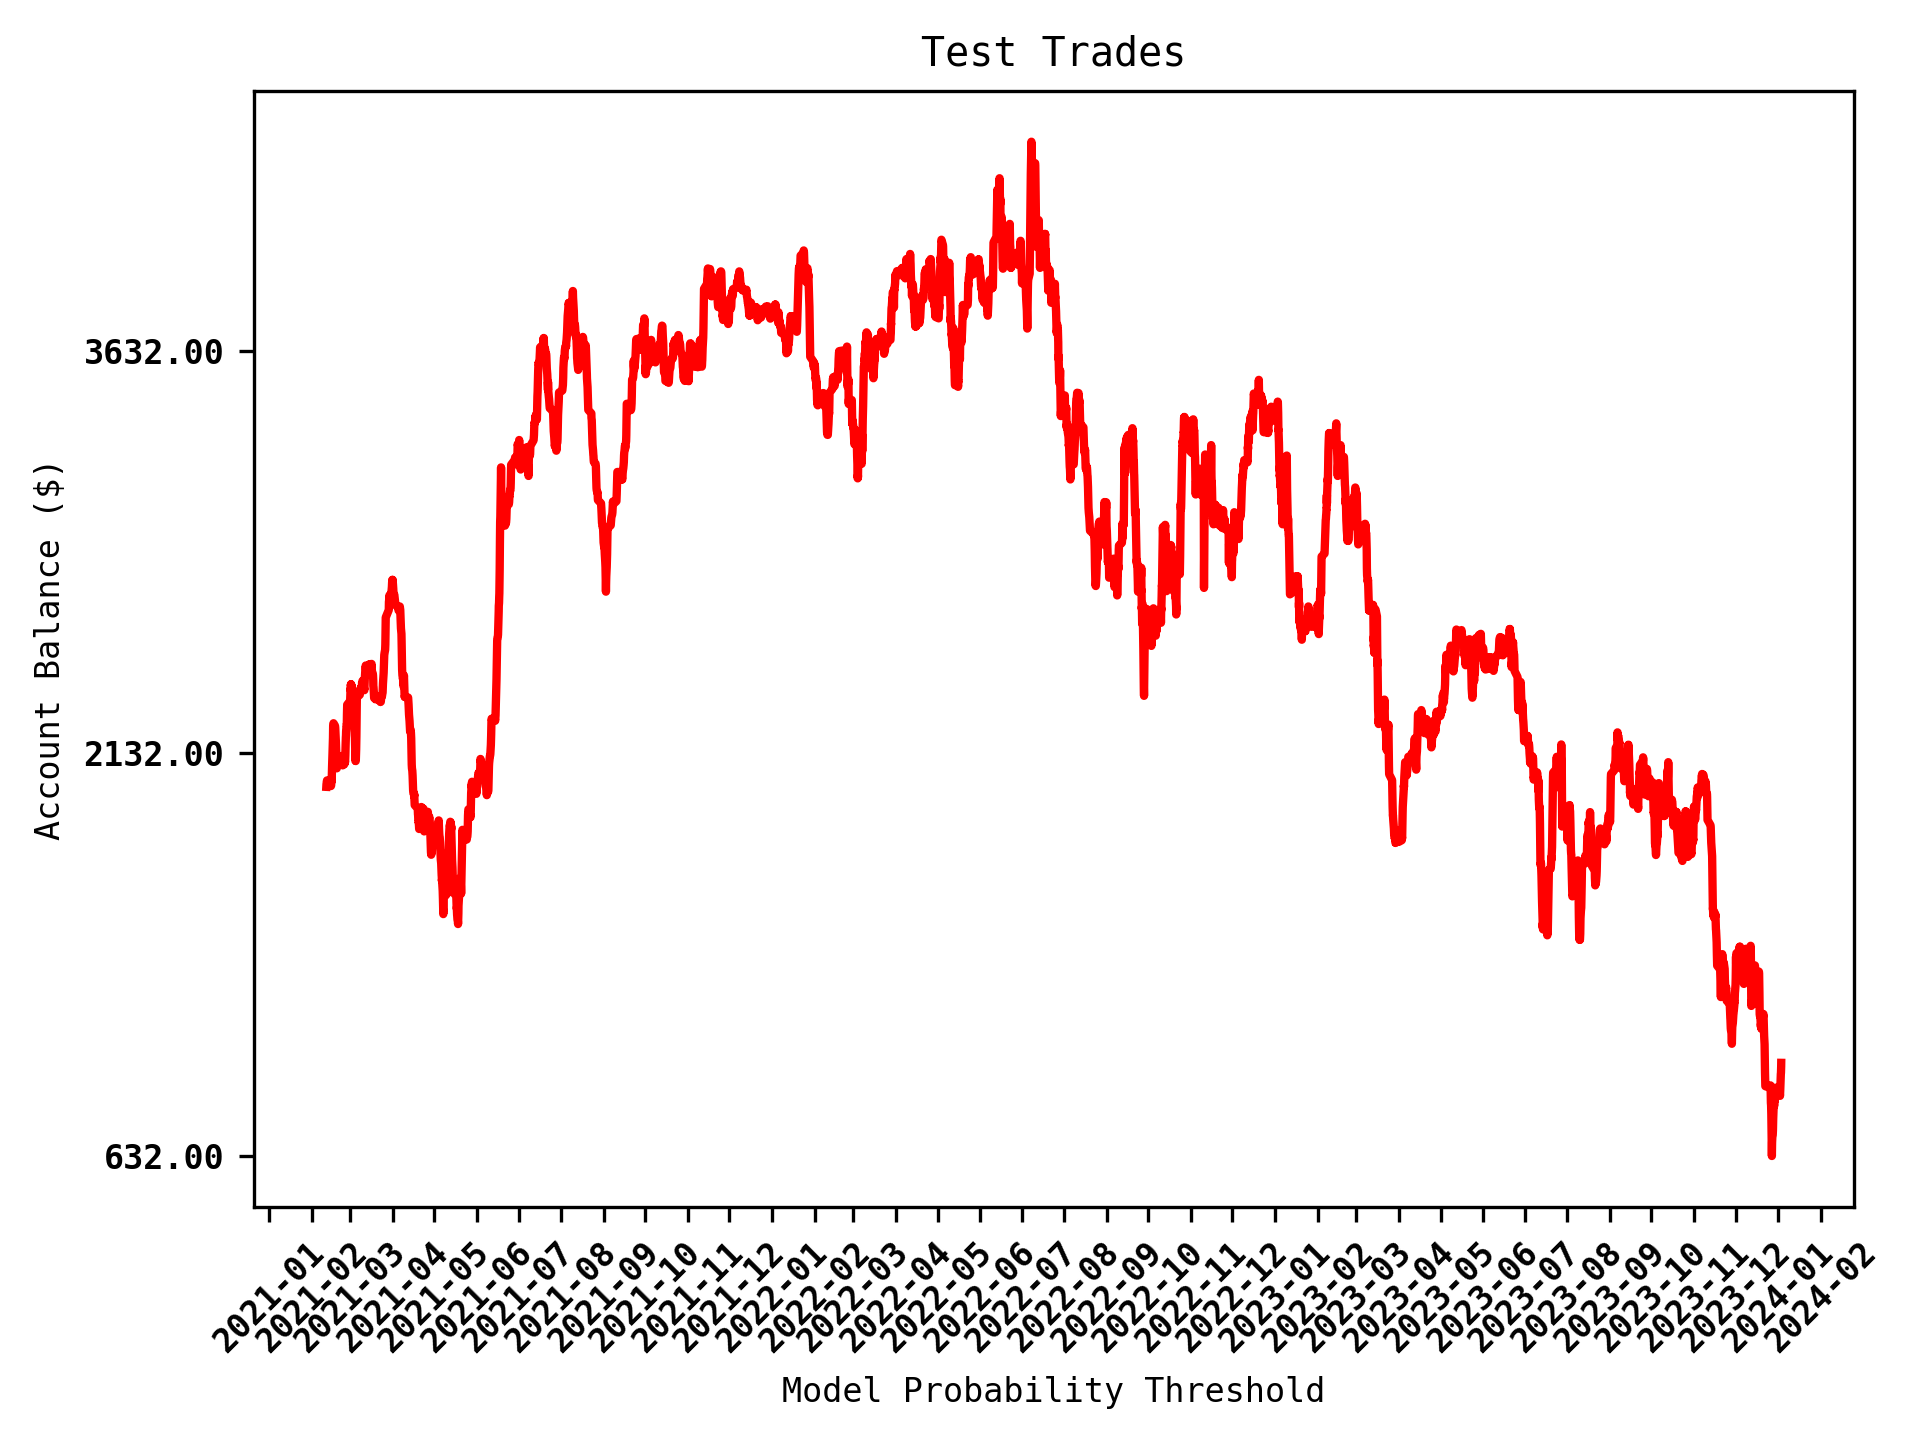
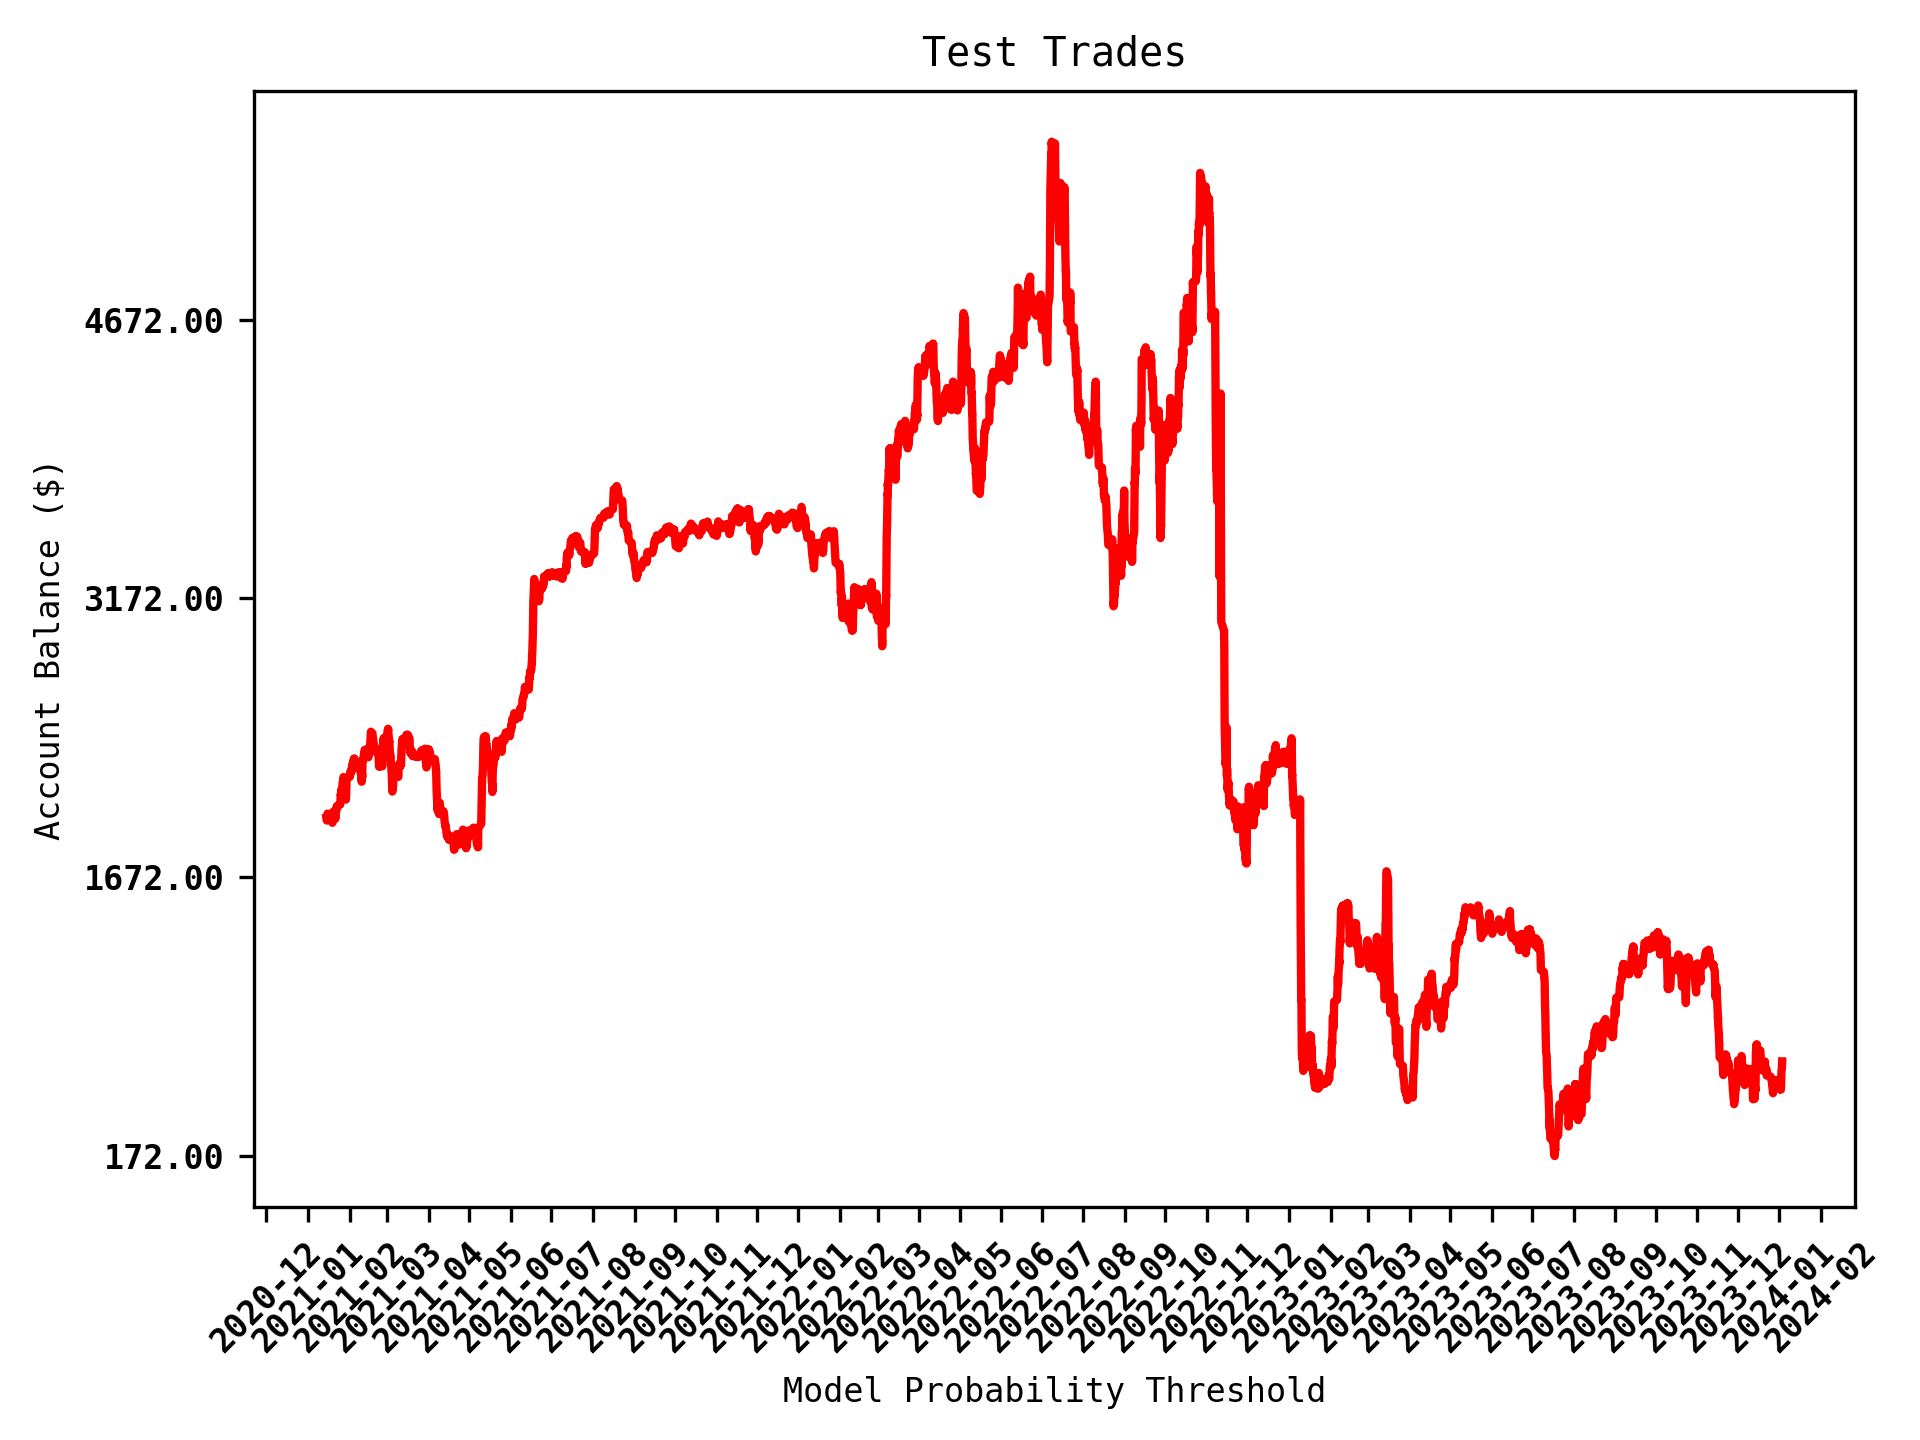
fix vol window

diff --git a/src/assets/forex/train_matrix/barriers.py b/src/assets/forex/train_matrix/barriers.py
@@ -24,7 +24,7 @@ def calculate_barriers_R(df, lookback):
     df['pct_change'] = df['Close'].pct_change()
 
 # Calculate rolling standard deviation (volatility)
-    df['volatility'] = df['pct_change'].rolling(window=50).std()
+    df['volatility'] = df['pct_change'].rolling(window=5).std()
 
    # df['volatility_norm'] = (df['volatility'] - df['volatility'].min()) / (df['volatility'].max() - df['volatility'].min())
 

diff --git a/src/assets/forex/train_matrix/trade_simulator.py b/src/assets/forex/train_matrix/trade_simulator.py
@@ -100,7 +100,7 @@ def trade_append(df, initial_balance, leverage, base_lot_size):
 
 # Main logic
 if __name__ == "__main__":
-    df = pd.read_csv('testfiles/test_result_EURUSD_0816-53.csv')
+    df = pd.read_csv('testfiles/test_result_EURUSD_0816-54.csv')
 
     # Set initial parameters
     initial_balance = 2000
